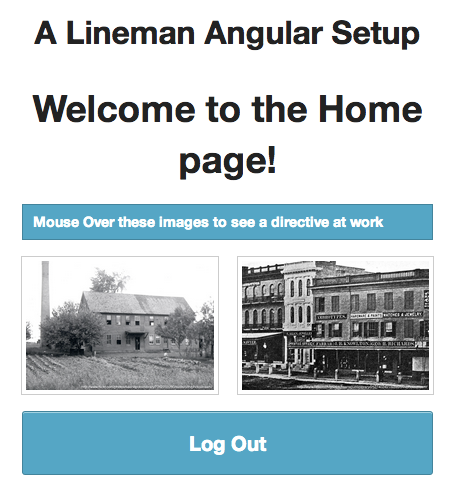
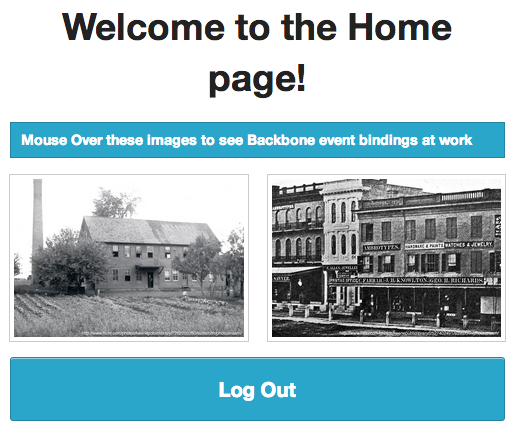
updating images

diff --git a/README.md b/README.md
@@ -6,7 +6,8 @@ This provides the basic configuration needed to get a Backbone app up and runnin
 2. A basic login, logout service bound to sample routes inside `config/server.js`
 3. A router, and 2 views `home_page` and `login_page`, and 1 model `home_page`
 4. A model `change` event binding that shows a message on mouseover
-5. A working, bound login form (username/password don't matter, but are required)
+5. A simple scheme for rendering views into a single dom element, `#view`
+6. A working, bound login form (username/password don't matter, but are required)
 
 ![The Login Page](https://raw.github.com/davemo/lineman-backbone-template/master/doc/login.png)
 ![The Home Page](https://raw.github.com/davemo/lineman-backbone-template/master/doc/home.png)
@@ -19,4 +20,4 @@ This provides the basic configuration needed to get a Backbone app up and runnin
 4. lineman run --force
 5. open your web browser to localhost:8000
 
-Hopefully this helps you get up and running with AngularJS!
+Hopefully this helps you get up and running with BackboneJS!
